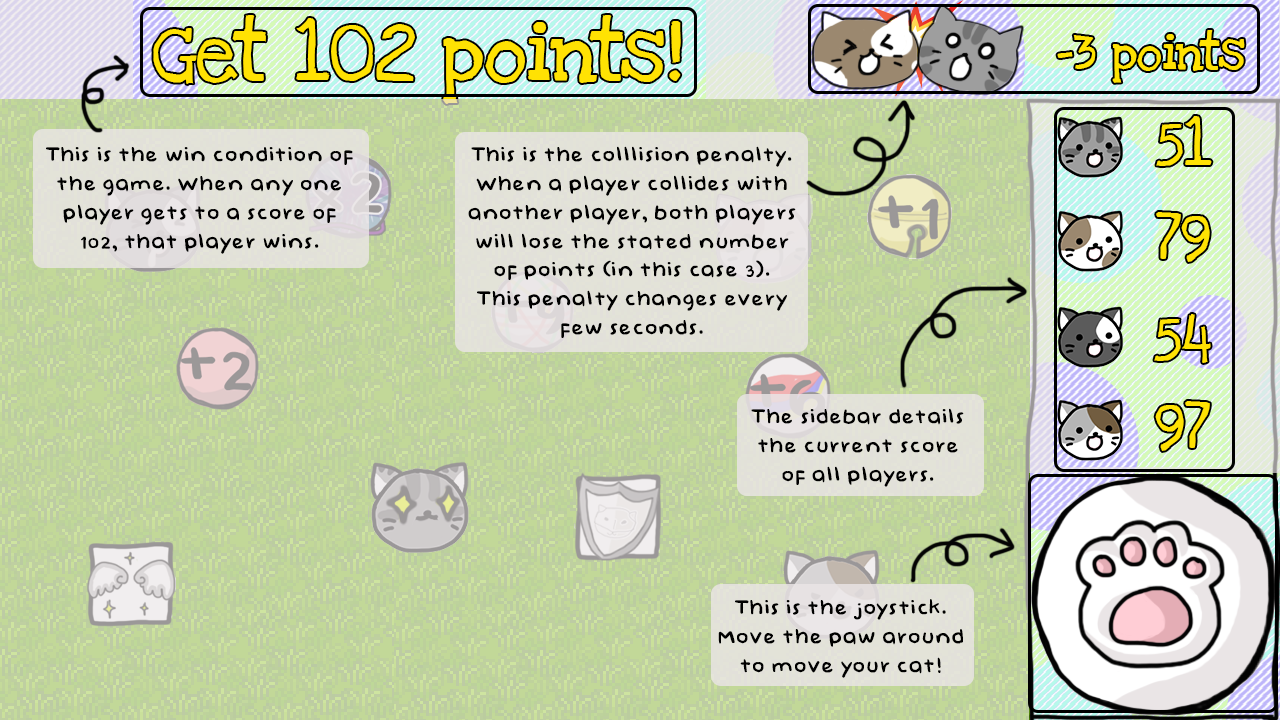
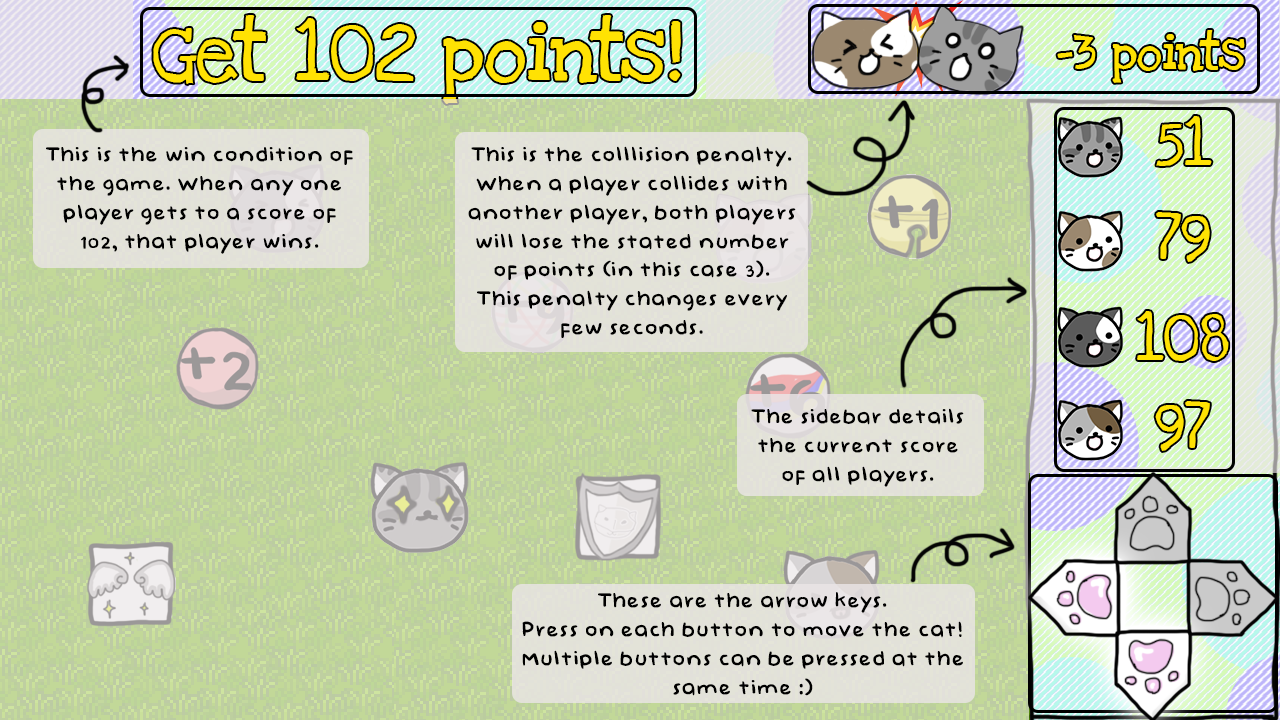
editted some codes and assets

diff --git a/core/src/screens/GameScreen.java b/core/src/screens/GameScreen.java
@@ -25,6 +25,8 @@ public class GameScreen implements Screen {
     private InputHandler myInput;
 
     private boolean thisScreen = true;
+
+    private int[] scoreForGameOver;
     
     public GameScreen(MyGdxGame game) throws InterruptedException {
         this.game = game;
@@ -57,6 +59,7 @@ public class GameScreen implements Screen {
         runTime += delta;
         if(world.win) {
             thisScreen = false;
+            this.scoreForGameOver= world.scoreForGameOver;
             changeScreen("game over");
         }
         System.out.println("thisScreen is " + thisScreen);
@@ -75,7 +78,7 @@ public class GameScreen implements Screen {
 
     public void changeScreen(String id) {
         if(id == "game over") {
-            game.setScreen(new GameOverScreen(renderer, game, world.scoreForGameOver));
+            game.setScreen(new GameOverScreen(renderer, game, this.scoreForGameOver));
         }
     }
 

diff --git a/core/src/gameworld/GameWorld.java b/core/src/gameworld/GameWorld.java
@@ -38,7 +38,7 @@ public class GameWorld {
     private float penaltyTimer;
     public static String collisionPenalty = "";
 
-    public static int[] scoreForGameOver;
+    public static int[] scoreForGameOver = new int[4];
 
     public static Music music;
     public static boolean musicLooped = false;
@@ -88,12 +88,13 @@ public class GameWorld {
         }
 
 
-
         for(Player player: players) {
+            int count = 0;
+
             if(player.getCurrentValue()==this.endScore) {
-                int count = 0;
                 for(Player player2: players) {
-                    scoreForGameOver[count] = player2.getCurrentValue();
+                    scoreForGameOver[count] = player.getCurrentValue();
+                    count +=1;
                     player2.resetCurrentValue();
                 }
                 Gdx.app.log("World", "someone has won");

diff --git a/core/src/gameobjects/Player.java b/core/src/gameobjects/Player.java
@@ -45,7 +45,7 @@ public class Player implements GameObject, Serializable {
 
     //todo: initialize booleans for other attributes(to change upon collision)
     private boolean shielded = false; //its score won't be affected
-    private int currentValue;
+    private int currentValue = 0;
 
     private boolean inContact;
 
